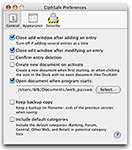
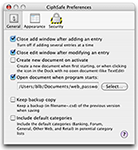
Remove the 'confirm entry deletion' preference, including where it affected code, the default value, strings for it, and help mentioning it; ticket #51

diff --git a/English.lproj/CiphSafe Help/pages/whatsNew.html b/English.lproj/CiphSafe Help/pages/whatsNew.html
@@ -194,6 +194,10 @@
                   removed, CiphSafe will now always warn when it's short.
                </li>
                <li>
+                  Preferences&mdash;The "confirm entry deletion" has been removed,
+                  as CiphSafe is capable of undo if an entry is accidentally deleted.
+               </li>
+               <li>
                   File Saving&mdash;Older version of CiphSafe didn't do anything
                   with the saved file's permission, which resulted in them being
                   readable to anyone else on the computer.  Version 1.3 now makes sure

diff --git a/English.lproj/CiphSafe Help/pages/prefsGeneral.html b/English.lproj/CiphSafe Help/pages/prefsGeneral.html
@@ -42,10 +42,6 @@
          entry windows close after an addition or change is made.
       </li>
       <li>
-         The "Confirm entry deletion" option controls whether or not CiphSafe will warn
-         every time you attempt to delete an entry.
-      </li>
-      <li>
          The "Create new document on activate" option, when enabled, will create a new
          empty document if CiphSafe is launched without a document specified, or the
          Dock icon is clicked and no documents are currently open.

diff --git a/CSWinCtrlMain.m b/CSWinCtrlMain.m
@@ -429,26 +429,7 @@ static NSArray *searchWhatArray;
  */
 - (IBAction) delete:(id)sender
 {
-   if( [ [ NSUserDefaults standardUserDefaults ] boolForKey:CSPrefDictKey_ConfirmDelete ] )
-   {
-      NSString *sheetQuestion;
-      if( [ documentView numberOfSelectedRows ] > 1 )
-         sheetQuestion = NSLocalizedString( @"Are you sure you want to delete the selected rows?", @"" );
-      else
-         sheetQuestion = NSLocalizedString( @"Are you sure you want to delete the selected row?", @"" );
-      NSBeginCriticalAlertSheet( NSLocalizedString( @"Are You Sure?", @"" ),
-                                 NSLocalizedString( @"Delete", @"" ),
-                                 NSLocalizedString( @"Cancel", @"" ),
-                                 nil,
-                                 [ self window ],
-                                 self,
-                                 @selector( deleteSheetDidEnd:returnCode:contextInfo: ),
-                                 nil,
-                                 NULL,
-                                 sheetQuestion );
-   }
-   else
-      [ [ self document ] deleteEntriesWithNamesInArray:[ self getSelectedNames ] ];
+   [ [ self document ] deleteEntriesWithNamesInArray:[ self getSelectedNames ] ];
 }
 
 
@@ -1055,18 +1036,6 @@ static NSArray *searchWhatArray;
    }
    
    return nameArray;
-}
-
-
-/*
- * Called when the "really delete" sheet is done
- */
-- (void) deleteSheetDidEnd:(NSWindow *)sheet
-                returnCode:(int)returnCode
-               contextInfo:(void *)contextInfo
-{
-   if( returnCode == NSAlertDefaultReturn )   // They said delete...
-      [ [ self document ] deleteEntriesWithNamesInArray:[ self getSelectedNames ] ];
 }
 
 

diff --git a/CSPrefsController.m b/CSPrefsController.m
@@ -38,7 +38,6 @@
 NSString * const CSPrefDictKey_SaveBackup = @"CSPrefDictKey_SaveBackup";
 NSString * const CSPrefDictKey_CloseAdd = @"CSPrefDictKey_CloseAdd";
 NSString * const CSPrefDictKey_CloseEdit = @"CSPrefDictKey_CloseEdit";
-NSString * const CSPrefDictKey_ConfirmDelete = @"CSPrefDictKey_ConfirmDelete";
 NSString * const CSPrefDictKey_ClearClipboard = @"CSPrefDictKey_ClearClipboard";
 NSString * const CSPrefDictKey_CreateNew = @"CSPrefDictKey_CreateNew";
 NSString * const CSPrefDictKey_GenSize = @"CSPrefDictKey_GenSize";

diff --git a/CSPrefsController.h b/CSPrefsController.h
@@ -39,7 +39,6 @@
 extern NSString * const CSPrefDictKey_SaveBackup;
 extern NSString * const CSPrefDictKey_CloseAdd;
 extern NSString * const CSPrefDictKey_CloseEdit;
-extern NSString * const CSPrefDictKey_ConfirmDelete;
 extern NSString * const CSPrefDictKey_ClearClipboard;
 extern NSString * const CSPrefDictKey_CreateNew;
 extern NSString * const CSPrefDictKey_GenSize;
